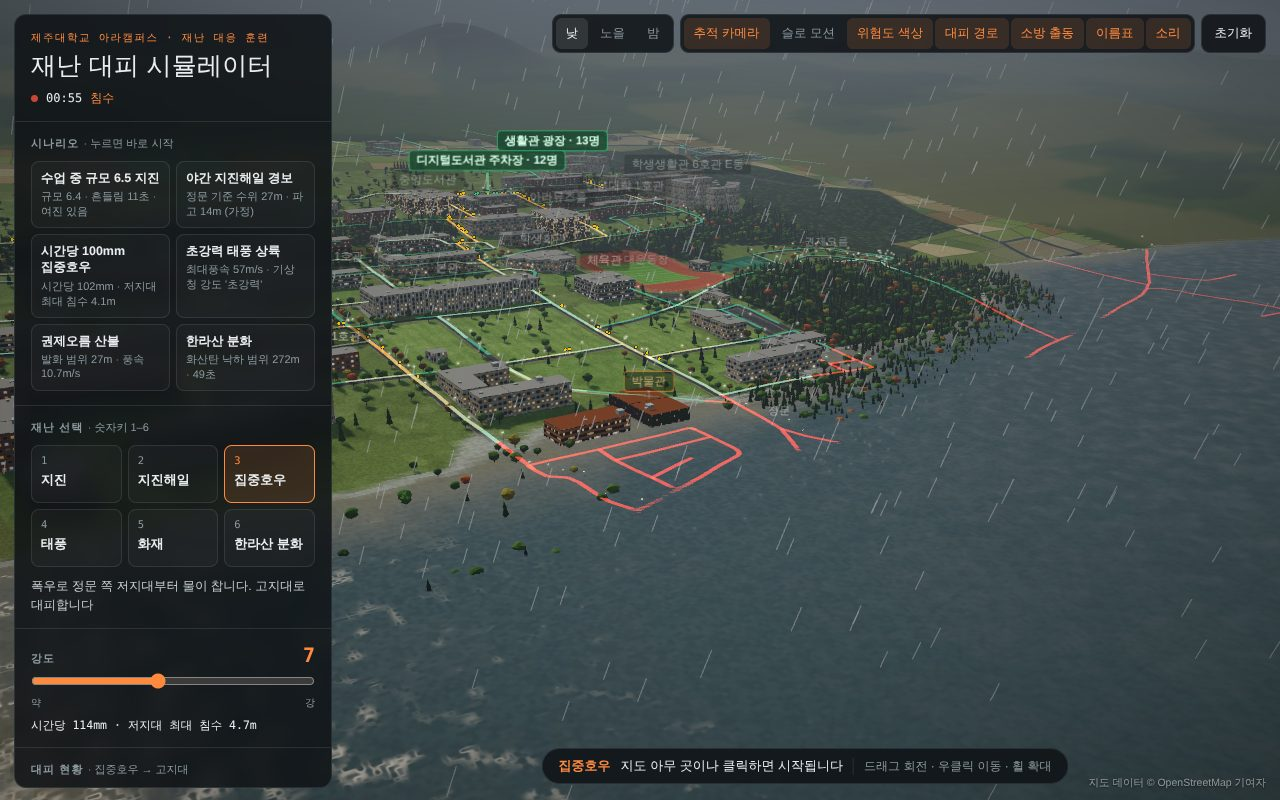
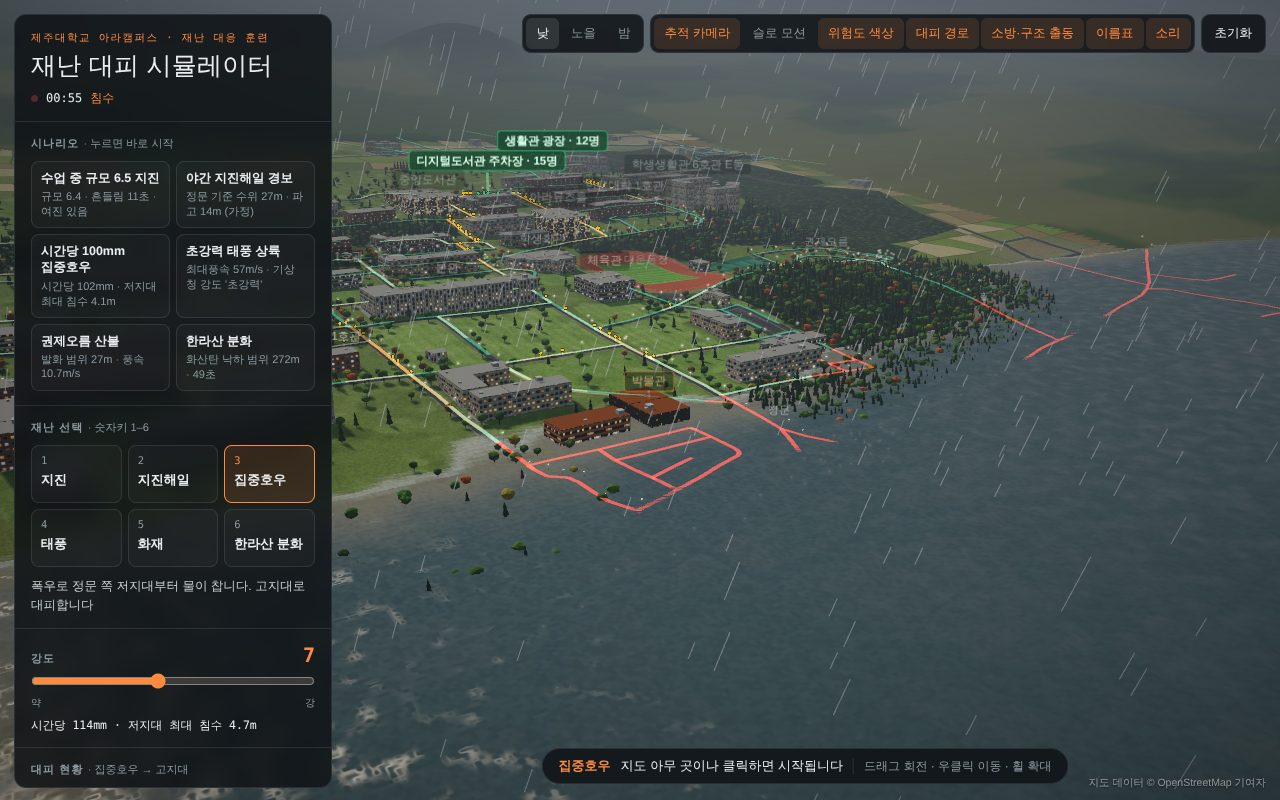
test: 고립 기록·구조 검사 추가와 README·SKILL.md 갱신
고립자 기록과 구조 모델이 실제로 동작하는지 확인하고, 문서에 반영한다.

- 브라우저 테스트에 "고립자 기록과 구조대 구조" 추가
  지진해일 강도 9를 렌더링 없이 직접 진행해 119 구조 요청, 구조대 도착,
  고립 경험 집계, 구조 인원과 구조 대기 시간까지 확인 (결과 15/15 통과)
- 스크린샷 갱신, 구조대 활동 장면(rescue.jpg) 추가
- README
  - "고립과 구조" 절: 고립 조건과 해제, 고립 경험 기록, 구조대 출동·구조·이송 규칙
  - 결과 지표에 고립 중·고립 경험·평균 고립·구조 추가
  - 지진해일 고립·구조 실험: 고립 46명 중 구조 5명, 나머지는 물이 빠진 뒤
    스스로 대피, 최대 대피 25분 38초 → 경보 즉시 고지대로 출발하는 것이 결정적
  - 개발 과정 3차 단계, 해결한 문제 2건, 한계(직선 이동 구조대, 사망 미표현)
- SKILL.md: 11-rescue 모듈, 고립 상태는 setStuck/clearStuck로만 바꿀 것,
  사망 상태를 만들지 않을 것, 긴 시나리오를 렌더링 없이 검사하는 방법

diff --git a/README.md b/README.md
@@ -2,7 +2,7 @@
 
 > **제주대학교 아라캠퍼스에서 재난이 나면 어디가 위험하고, 사람들은 어디로 어떻게 대피해야 하며, 대피는 얼마나 걸릴까?**
 
-실제 건물·도로 배치(OpenStreetMap)와 실측 고도로 아라캠퍼스를 3D로 재현하고, 지진·지진해일·집중호우·태풍·화재·한라산 분화 6가지 재난에서 **위험한 건물을 색으로 표시**하고, 캠퍼스 사람들이 **실제 길을 따라 재난에 맞는 대피소로 이동하는 과정과 걸리는 시간**을 보여주는 웹 시뮬레이터입니다. 설치 없이 브라우저에서 바로 실행됩니다.
+실제 건물·도로 배치(OpenStreetMap)와 실측 고도로 아라캠퍼스를 3D로 재현하고, 지진·지진해일·집중호우·태풍·화재·한라산 분화 6가지 재난에서 **위험한 건물을 색으로 표시**하고, 캠퍼스 사람들이 **실제 길을 따라 재난에 맞는 대피소로 이동하는 과정과 걸리는 시간**, 물이나 불에 **고립된 사람을 119 구조대가 구조하는 과정**까지 보여주는 웹 시뮬레이터입니다. 설치 없이 브라우저에서 바로 실행됩니다.
 
 ![지진 대피 화면](docs/screenshots/quake.jpg)
 
@@ -11,6 +11,8 @@
 | ![지진해일](docs/screenshots/tsunami.jpg) | ![집중호우](docs/screenshots/rain.jpg) | ![태풍](docs/screenshots/typhoon.jpg) |
 | **화재** | **한라산 분화** | **평상시 캠퍼스** |
 | ![화재](docs/screenshots/fire.jpg) | ![한라산 분화](docs/screenshots/volcano.jpg) | ![전경](docs/screenshots/overview.jpg) |
+| **119 구조대 (지진해일 고립자 구조)** | | |
+| ![구조대](docs/screenshots/rescue.jpg) | | |
 
 ---
 
@@ -32,7 +34,7 @@
 
 1. 로딩이 끝나면 왼쪽 위 **시나리오** 버튼 하나를 누릅니다. (예: "수업 중 규모 6.5 지진")
 2. 건물이 **위험도 색**(노랑 주의·주황 경고·빨강 위험)으로 바뀌고, 사람(점)이 **초록 경로 띠**를 따라 **대피소**(초록 기둥)로 이동합니다.
-3. 왼쪽 패널에서 **대피 완료율, 평균·최대 대피 시간, 고립·위험 노출 인원**을 봅니다.
+3. 왼쪽 패널에서 **대피 완료율, 평균·최대 대피 시간, 고립·위험 노출 인원, 구조 인원**을 봅니다. 고립자가 생기면 119 구조대(주황 차량)가 출동합니다.
 4. **대피소 목록**에서 대피소를 꺼 보고 같은 시나리오를 다시 실행하면, 결과가 **실행 기록표**에 쌓여 비교할 수 있습니다.
 5. 직접 해 보려면 재난(숫자키 `1`~`6`)과 강도를 고르고 지도를 클릭합니다. 클릭한 곳이 진앙·발화점이 됩니다.
 
@@ -43,7 +45,7 @@
 | 숫자키 1~6 | 재난 선택 |
 | 건물 위에 마우스 | 이름·층수·구조 건전도·위험 등급·주원인·침수 깊이 |
 
-오른쪽 위 토글: 낮·노을·밤, 추적 카메라, 슬로 모션, **위험도 색상**, **대피 경로**, 소방 출동, 이름표, 소리, 초기화.
+오른쪽 위 토글: 낮·노을·밤, 추적 카메라, 슬로 모션, **위험도 색상**, **대피 경로**, **소방·구조 출동**, 이름표, 소리, 초기화.
 
 ## 3. 재난 6종과 대피 방식
 
@@ -112,16 +114,25 @@ flowchart LR
 - 보행 속도 1.4m/s(개인차 ±18%). 한 구간에 수용량(길이/3명)보다 많으면 최대 70%까지 느려지고, 많이 지나간 구간일수록 경로 띠가 노랑→빨강이 됩니다.
 - 화면은 **시간을 10배 압축**합니다(화면 1초 = 실제 10초). 패널의 시간은 모두 실제 시간으로 환산한 값입니다.
 
+### 고립과 구조
+
+- **고립**: 서 있는 곳이 0.5m 넘게 잠기거나, 길이 모두 막혀 갈 수 있는 대피소가 없으면 그 자리에 멈춥니다. 물이 0.2m 아래로 빠지거나 길이 다시 열리면 스스로 대피를 이어 갑니다. 한 번이라도 고립된 사람은 끝까지 "고립 경험"으로 기록되고, 고립된 시간도 누적됩니다.
+- **구조**: 첫 고립자가 생기면 119에 구조를 요청하고, 5분(실제 환산) 뒤 구조대 3팀이 정문·후문 중 안전한 쪽으로 도착합니다. 각 팀은 가장 가까운 고립자에게 가서(보트·차량, 4m/s) 1분간 구조한 뒤, 반경 30m 안 고립자를 최대 6명까지 태워 가장 가까운 열린 대피소로 이송하고 다음 고립자에게 갑니다.
+- 고립자가 남아 있고 구조대가 활동 중이면 실행이 끝나지 않습니다. "소방·구조 출동"을 끄면 구조 없이 진행됩니다.
+
 ### 결과 지표
 
 | 지표 | 정의 |
 |---|---|
 | 대피 완료율 | 대피소에 도착한 사람 / 전체 |
 | 평균·최대 대피 시간 | 재난 발생부터 도착까지 (실제 시간 환산) |
-| 고립 | 0.5m 넘는 물에 갇혔거나 갈 수 있는 대피소가 없는 사람 |
+| 고립 중 | 지금 0.5m 넘는 물에 갇혔거나 갈 수 있는 대피소가 없는 사람 (실행 기록표의 "고립"은 끝까지 고립된 인원) |
+| 고립 경험 | 한 번이라도 고립된 사람. 나중에 스스로 빠져나오거나 구조돼도 남음 |
+| 평균 고립 | 고립 경험자가 고립 상태로 보낸 시간의 평균 |
+| 구조 | 구조대가 태워 대피소로 옮긴 사람, 평균 구조 대기(처음 고립된 때부터 구조대가 태울 때까지) |
 | 위험 노출 | 대피 중 0.2m 넘는 물이나 불 12m 이내를 지난 사람 |
 
-모두 도착·고립하거나 30분(실제 환산)이 지나면 한 번의 실행이 끝나고 **실행 기록표**에 한 줄이 쌓입니다.
+모두 도착하거나(구조 포함), 구조대가 없을 때 남은 사람이 모두 고립되거나, 30분(실제 환산)이 지나면 한 번의 실행이 끝나고 **실행 기록표**에 한 줄이 쌓입니다.
 
 ## 5. 분석: 어느 대피소가 중요한가
 
@@ -139,6 +150,21 @@ flowchart LR
 - 옥외 대피 인원의 절반이 **중앙 잔디광장**으로 몰립니다. 잔디광장을 쓸 수 없으면 평균 거리가 20% 늘지만, 대운동장이 막혀도 거의 차이가 없습니다. 캠퍼스 중앙의 넓은 잔디밭이 지진 대피의 핵심 공간이라는 뜻입니다.
 - "넓은 곳 = 대운동장" 한 곳만 떠올리면 평균 거리가 두 배(759m)가 되고, 생활관 쪽에서는 15분 넘게 걸립니다. 대피소를 여러 곳으로 나눠 알려야 하는 이유입니다.
 - 고지대 대피는 북쪽 저지대 건물(원자력과학기술연구소, 박물관 일대)에서 1km 넘게 걸어야 합니다. 이 구역은 지진해일·호우 때 대피를 가장 먼저 시작해야 합니다.
+
+### 지진해일 고립·구조 실험
+
+지진해일 강도 9(정문 기준 수위 31m, 가정)를 처음부터 끝까지 진행했을 때의 결과입니다(저화질 표본 180명).
+
+| 항목 | 결과 |
+|---|---|
+| 고립 경험 | 46명 |
+| 구조대 도착 | 첫 고립 약 5분 뒤, 정문이 잠겨 **후문**으로 도착 |
+| 구조 | 5명, 평균 구조 대기 약 7분 |
+| 나머지 고립자 | 41명은 물이 빠지기 시작한 뒤 스스로 대피 |
+| 최종 | 완료율 100%, 평균 대피 8분, **최대 25분 38초** |
+
+- 구조대 3팀이 한 번에 태울 수 있는 인원보다 고립자가 훨씬 많고, 고립자가 넓게 흩어져 있어 구조로 해결되는 비율은 10% 남짓입니다.
+- 물은 북쪽에서 밀려오므로 고립은 고지대 대피소까지 거리가 먼 저지대에서 생깁니다. 구조대는 첫 고립 뒤 5분이 지나야 도착하므로, **구조를 기다리는 것보다 경보 즉시 고지대로 출발하는 것이 결정적**이라는 행동요령과 같은 결론입니다.
 
 ## 6. 행동요령과 출처
 
@@ -181,7 +207,8 @@ jnu-disaster-sim/
 │  ├─ 08-agents.js       차량, 소방차
 │  ├─ 09-sound.js        Web Audio 절차적 사운드
 │  ├─ 10-environment.js  물, 비, 번개, 화산
-│  ├─ 11-evacuation.js   대피자, 경로 비용, 대피소 개폐, 지표
+│  ├─ 11-evacuation.js   대피자, 경로 비용, 대피소 개폐, 고립 기록, 지표
+│  ├─ 11-rescue.js       119 구조대 출동·구조·이송
 │  ├─ 12-disasters.js    재난 6종과 등록표 DISASTERS
 │  └─ 13-main.js         패널 UI, 입력, 카메라, 메인 루프
 ├─ vendor/three/         three.js r128
@@ -212,7 +239,7 @@ npm run analyze       # docs/ANALYSIS.md 다시 만들기
 - 경로(6): 간선 길이, 연결성, 옥외·고지대 대피소 도달률 90% 이상, 경로를 따라 남은 거리가 줄어드는지, 막힌 간선 우회
 - 구조(2): `index.html` 스크립트 순서, 파일 사이 최상위 이름 중복 금지
 
-**브라우저 동작 테스트**: `index.html`을 파일로 직접 열고 네트워크를 모두 차단한 상태에서 로딩, 실제 마우스 클릭, 재난 6종(시작 로그·대피 방식·이동/도착·위험 건물·침수·화재), 대피소를 하나만 남겼을 때 그곳으로만 가는지, 실행 기록표, 시나리오 버튼, 초기화, 스크립트 오류를 검사합니다.
+**브라우저 동작 테스트**: `index.html`을 파일로 직접 열고 네트워크를 모두 차단한 상태에서 로딩, 실제 마우스 클릭, 재난 6종(시작 로그·대피 방식·이동/도착·위험 건물·침수·화재), 대피소를 하나만 남겼을 때 그곳으로만 가는지, 실행 기록표, 고립 기록과 구조대 구조, 시나리오 버튼, 초기화, 스크립트 오류를 검사합니다.
 
 최근 실행 결과 (헤드리스 크롬, 저화질 모드 표본 180명):
 
@@ -220,22 +247,23 @@ npm run analyze       # docs/ANALYSIS.md 다시 만들기
 PASS  페이지 로드와 초기화
 PASS  건물 84동·보행 그래프·대피소 15곳 생성 — 노드 1239, 표본 180명
 PASS  지도 클릭으로 지진과 대피 시작
-PASS  재난: quake — 대피 방식 open, 이동·도착 180/180, 위험 건물 59, 도착 23명
+PASS  재난: quake — 대피 방식 open, 이동·도착 180/180, 위험 건물 57, 도착 22명
 PASS  재난: tsunami — 대피 방식 high, 이동·도착 178/180, 침수 구역 18
 PASS  재난: rain — 대피 방식 high, 이동·도착 180/180, 침수 구역 4
-PASS  재난: typhoon — 대피 방식 indoor, 이동·도착 180/180, 도착 57명
+PASS  재난: typhoon — 대피 방식 indoor, 이동·도착 180/180, 도착 69명
 PASS  재난: fire — 대피 방식 open, 이동·도착 180/180, 화재 구역 6
 PASS  재난: volcano — 대피 방식 indoor, 이동·도착 180/180
 PASS  실행 기록표에 결과가 쌓임
-PASS  대피소를 끄면 남은 대피소로만 대피 — 도착 10명 → 학생회관
+PASS  대피소를 끄면 남은 대피소로만 대피 — 도착 7명 → 학생회관
+PASS  고립자 기록과 구조대 구조 — 고립 경험 45명, 구조 3명, 평균 구조 대기 436초 (재난 후 10분)
 PASS  시나리오 버튼 (야간 지진해일)
 PASS  초기화
 PASS  실행 중 스크립트 오류 없음
 
-14/14 통과
+15/15 통과
 ```
 
-재난마다 정해진 짧은 시간(화면 8~26초)만 진행한 뒤 검사하므로 도착 인원은 일부입니다. README의 스크린샷은 모두 이 테스트가 찍은 화면입니다.
+재난마다 정해진 짧은 시간(화면 8~26초)만 진행한 뒤 검사하므로 도착 인원은 일부입니다. 구조 검사는 수십 초가 걸리므로 렌더링 없이 시뮬레이션을 직접 진행해 첫 이송이 시작될 때까지 확인합니다. README의 스크린샷은 모두 이 테스트가 찍은 화면입니다.
 
 ## 10. 개발 과정
 
@@ -244,6 +272,7 @@ PASS  실행 중 스크립트 오류 없음
 1. **1차 (1~10단계)**: 아라캠퍼스 3D 재현과 재난 9종 체험형 시뮬레이터
 2. **방향 전환**: 파괴를 보여주는 체험은 과제로서 의미가 약하다고 판단해, "어디가 위험하고 어디로 대피하는가"를 보여주는 도구로 바꾸기로 하고 [설계 문서](docs/DESIGN.md)를 먼저 작성
 3. **2차 (11~19단계)**: 공격·비현실 시나리오 제거, 집중호우 추가, 위험도 평가, 보행 그래프와 대피 경로, 대피 시뮬레이션, 시나리오·행동요령·실행 기록, 테스트·분석
+4. **3차 (20~22단계)**: 고립됐다가 물이 빠져 걸어 나온 사람이 결과에 "무사히 도착"으로만 남는 문제를 발견해, 고립 경험·고립 시간을 누적 기록하고 119 구조대 모델을 추가
 
 ### 개발 중 해결한 문제
 
@@ -255,6 +284,8 @@ PASS  실행 중 스크립트 오류 없음
 | 집중호우가 캠퍼스 건물에 닿지 않음 | 침수 깊이가 정문 높이 근처에서 끝남 | 저지대 최대 침수 깊이 상향 |
 | 건물 외벽이 검게 렌더링 | 환경맵(PMREM) 생성 오류 | 환경맵 제거, 반구광 보정 |
 | 파일로 열면 클릭이 안 됨 | 투명해진 로딩 화면이 지도를 덮음 | 로딩 완료 시 `hidden` 처리 |
+| 고립됐다 빠져나온 사람이 "도착"으로만 기록 | 고립을 현재 상태로만 셈 | 고립 경험·누적 고립 시간을 따로 기록 |
+| 구조대가 도착하면 이미 물이 빠져 있음 | 최고 수위 유지가 8초(실제 1분 남짓)로 너무 짧음 | 지진해일 45초·호우 50초(실제 7~8분)로 늘림 |
 
 ### SKILL.md
 
@@ -267,6 +298,7 @@ PASS  실행 중 스크립트 오류 없음
 - 건물 높이는 추정값이고, 건물 내부 계단·복도는 표현하지 않습니다(건물 출입구에서 출발).
 - 보행 그래프는 OSM에 그려진 길만 씁니다. 지도에 없는 샛길·잔디밭 가로지르기는 반영되지 않습니다.
 - 시간은 10배 압축이고 반응 시간은 단순 분포입니다.
+- 구조대는 길을 따르지 않고 직선으로 이동하며(보트·차량 가정), 출동 시간과 팀 수는 고정값입니다. 사망·부상은 다루지 않고 고립·위험 노출로만 나타냅니다.
 
 ## 12. 문제 해결
 

diff --git a/TODO.md b/TODO.md
@@ -33,4 +33,4 @@
 
 - [x] 20. 고립 기록 누적 (고립 경험 인원, 평균 고립 시간)
 - [x] 21. 구조 모델 (119 구조대 출동, 고립자 구조·이송, 구조 대기 시간)
-- [ ] 22. 테스트·스크린샷·README·SKILL.md 갱신
+- [x] 22. 테스트·스크린샷·README·SKILL.md 갱신
